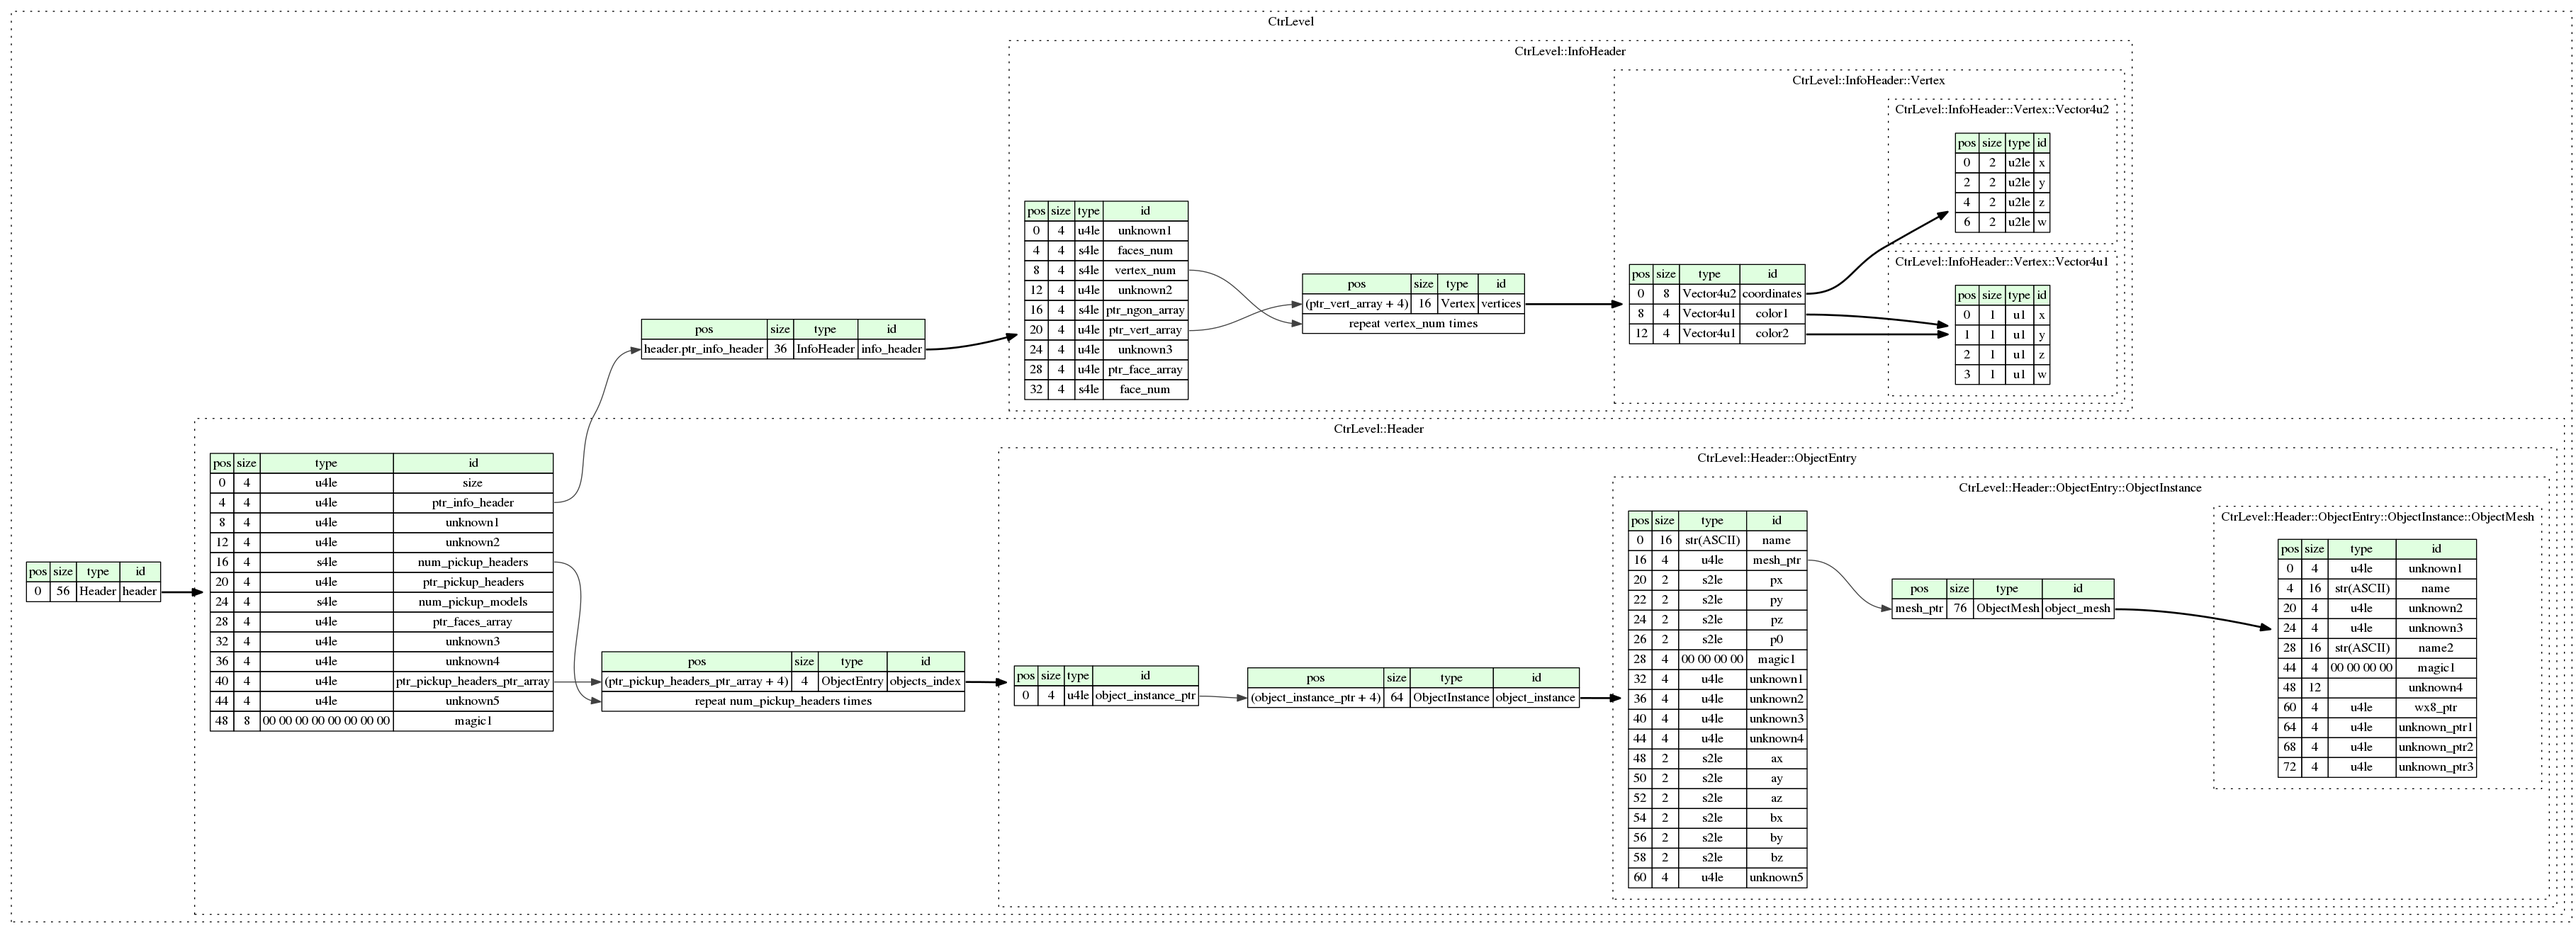
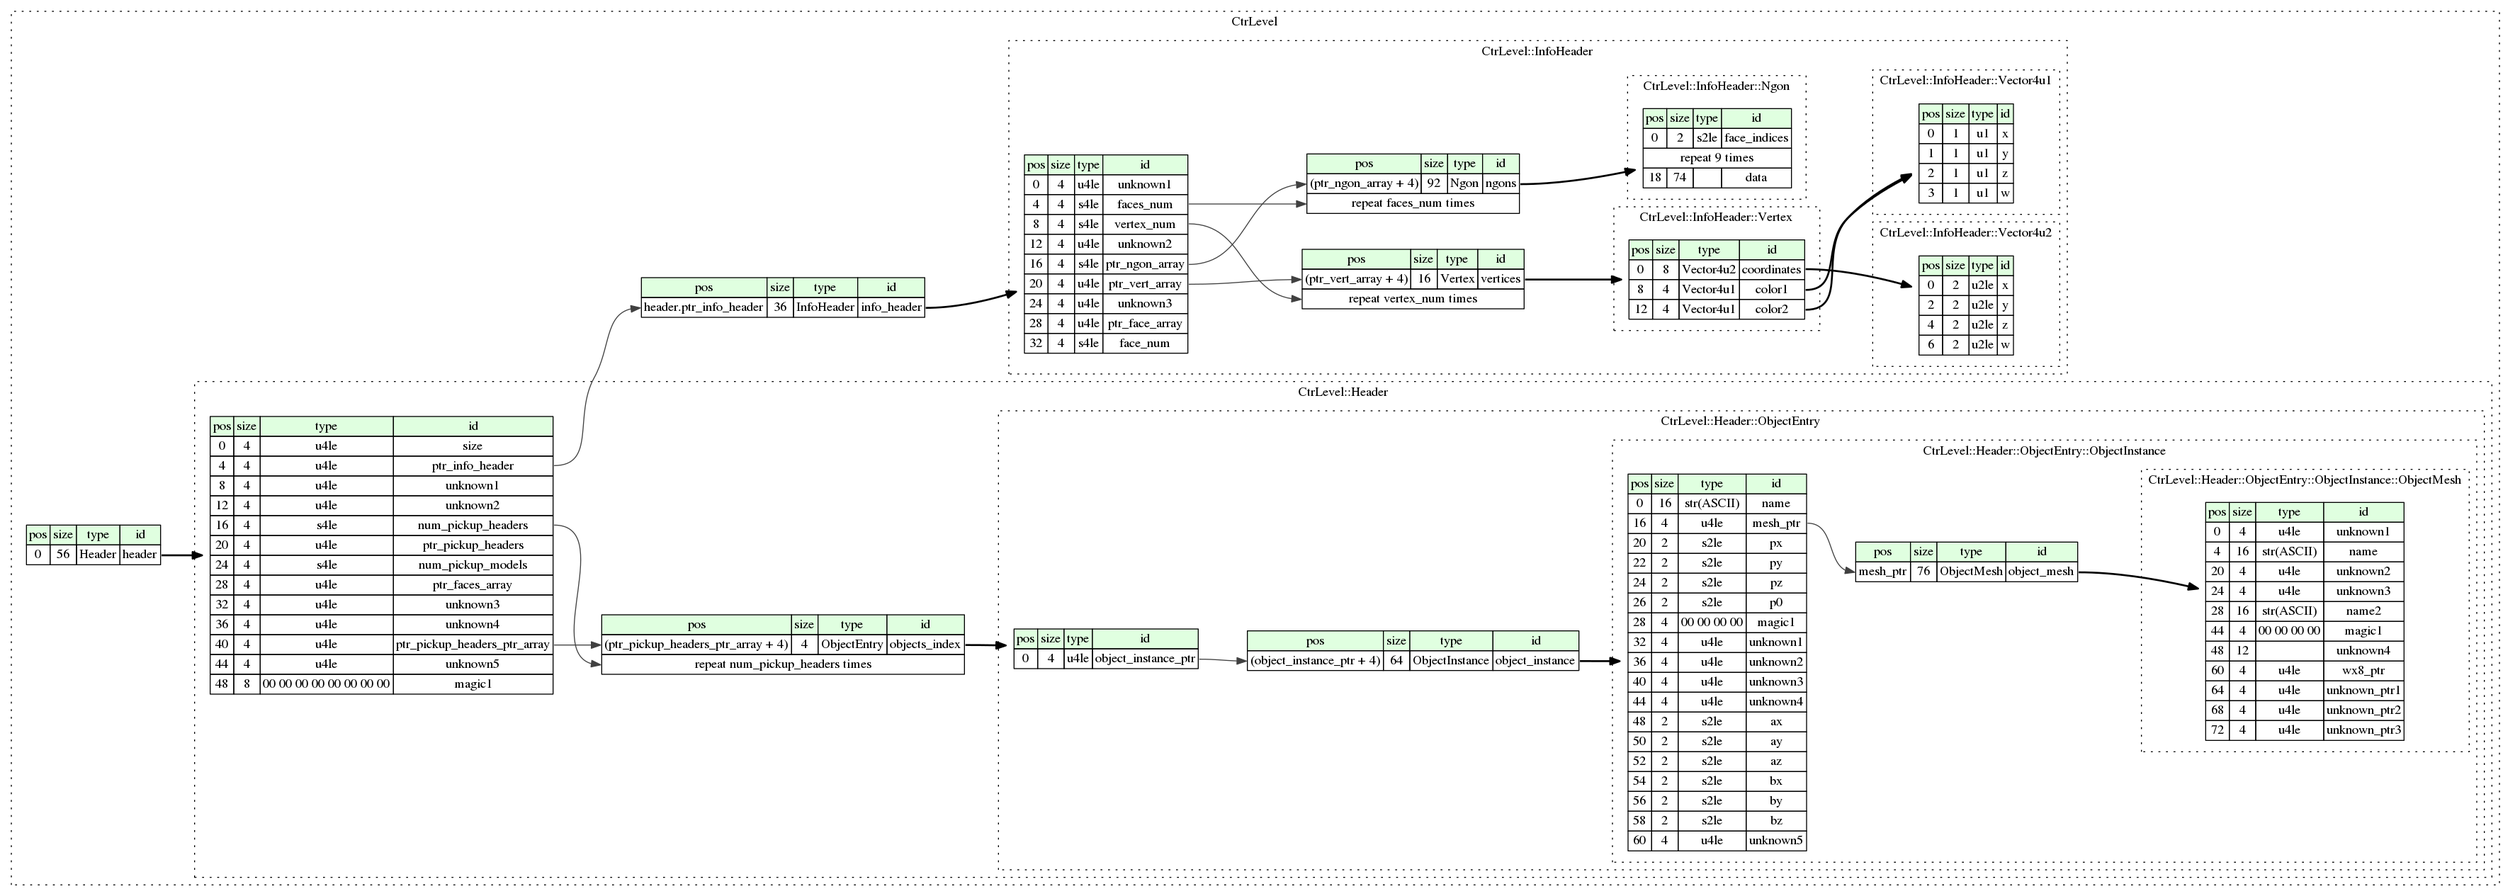
level ngons work the same as DCxDemo

diff --git a/csharp/ctr/CtrLevel.cs b/csharp/ctr/CtrLevel.cs
@@ -309,6 +309,7 @@ namespace ctr
                 m_parent = p__parent;
                 m_root = p__root;
                 f_vertices = false;
+                f_ngons = false;
                 _read();
             }
             private void _read()
@@ -342,72 +343,6 @@ namespace ctr
                     _color1 = new Vector4u1(m_io, this, m_root);
                     _color2 = new Vector4u1(m_io, this, m_root);
                 }
-                public partial class Vector4u2 : KaitaiStruct
-                {
-                    public static Vector4u2 FromFile(string fileName)
-                    {
-                        return new Vector4u2(new KaitaiStream(fileName));
-                    }
-
-                    public Vector4u2(KaitaiStream p__io, CtrLevel.InfoHeader.Vertex p__parent = null, CtrLevel p__root = null) : base(p__io)
-                    {
-                        m_parent = p__parent;
-                        m_root = p__root;
-                        _read();
-                    }
-                    private void _read()
-                    {
-                        _x = m_io.ReadU2le();
-                        _y = m_io.ReadU2le();
-                        _z = m_io.ReadU2le();
-                        _w = m_io.ReadU2le();
-                    }
-                    private ushort _x;
-                    private ushort _y;
-                    private ushort _z;
-                    private ushort _w;
-                    private CtrLevel m_root;
-                    private CtrLevel.InfoHeader.Vertex m_parent;
-                    public ushort X { get { return _x; } }
-                    public ushort Y { get { return _y; } }
-                    public ushort Z { get { return _z; } }
-                    public ushort W { get { return _w; } }
-                    public CtrLevel M_Root { get { return m_root; } }
-                    public CtrLevel.InfoHeader.Vertex M_Parent { get { return m_parent; } }
-                }
-                public partial class Vector4u1 : KaitaiStruct
-                {
-                    public static Vector4u1 FromFile(string fileName)
-                    {
-                        return new Vector4u1(new KaitaiStream(fileName));
-                    }
-
-                    public Vector4u1(KaitaiStream p__io, CtrLevel.InfoHeader.Vertex p__parent = null, CtrLevel p__root = null) : base(p__io)
-                    {
-                        m_parent = p__parent;
-                        m_root = p__root;
-                        _read();
-                    }
-                    private void _read()
-                    {
-                        _x = m_io.ReadU1();
-                        _y = m_io.ReadU1();
-                        _z = m_io.ReadU1();
-                        _w = m_io.ReadU1();
-                    }
-                    private byte _x;
-                    private byte _y;
-                    private byte _z;
-                    private byte _w;
-                    private CtrLevel m_root;
-                    private CtrLevel.InfoHeader.Vertex m_parent;
-                    public byte X { get { return _x; } }
-                    public byte Y { get { return _y; } }
-                    public byte Z { get { return _z; } }
-                    public byte W { get { return _w; } }
-                    public CtrLevel M_Root { get { return m_root; } }
-                    public CtrLevel.InfoHeader.Vertex M_Parent { get { return m_parent; } }
-                }
                 private Vector4u2 _coordinates;
                 private Vector4u1 _color1;
                 private Vector4u1 _color2;
@@ -415,13 +350,106 @@ namespace ctr
                 private CtrLevel.InfoHeader m_parent;
                 public Vector4u2 Coordinates { get { return _coordinates; } }
                 public Vector4u1 Color1 { get { return _color1; } }
-
-                /// <summary>
-                /// ???
-                /// </summary>
                 public Vector4u1 Color2 { get { return _color2; } }
                 public CtrLevel M_Root { get { return m_root; } }
                 public CtrLevel.InfoHeader M_Parent { get { return m_parent; } }
+            }
+            public partial class Ngon : KaitaiStruct
+            {
+                public static Ngon FromFile(string fileName)
+                {
+                    return new Ngon(new KaitaiStream(fileName));
+                }
+
+                public Ngon(KaitaiStream p__io, CtrLevel.InfoHeader p__parent = null, CtrLevel p__root = null) : base(p__io)
+                {
+                    m_parent = p__parent;
+                    m_root = p__root;
+                    _read();
+                }
+                private void _read()
+                {
+                    _faceIndices = new List<short>((int) (9));
+                    for (var i = 0; i < 9; i++)
+                    {
+                        _faceIndices.Add(m_io.ReadS2le());
+                    }
+                    _data = m_io.ReadBytes(74);
+                }
+                private List<short> _faceIndices;
+                private byte[] _data;
+                private CtrLevel m_root;
+                private CtrLevel.InfoHeader m_parent;
+                public List<short> FaceIndices { get { return _faceIndices; } }
+                public byte[] Data { get { return _data; } }
+                public CtrLevel M_Root { get { return m_root; } }
+                public CtrLevel.InfoHeader M_Parent { get { return m_parent; } }
+            }
+            public partial class Vector4u2 : KaitaiStruct
+            {
+                public static Vector4u2 FromFile(string fileName)
+                {
+                    return new Vector4u2(new KaitaiStream(fileName));
+                }
+
+                public Vector4u2(KaitaiStream p__io, CtrLevel.InfoHeader.Vertex p__parent = null, CtrLevel p__root = null) : base(p__io)
+                {
+                    m_parent = p__parent;
+                    m_root = p__root;
+                    _read();
+                }
+                private void _read()
+                {
+                    _x = m_io.ReadU2le();
+                    _y = m_io.ReadU2le();
+                    _z = m_io.ReadU2le();
+                    _w = m_io.ReadU2le();
+                }
+                private ushort _x;
+                private ushort _y;
+                private ushort _z;
+                private ushort _w;
+                private CtrLevel m_root;
+                private CtrLevel.InfoHeader.Vertex m_parent;
+                public ushort X { get { return _x; } }
+                public ushort Y { get { return _y; } }
+                public ushort Z { get { return _z; } }
+                public ushort W { get { return _w; } }
+                public CtrLevel M_Root { get { return m_root; } }
+                public CtrLevel.InfoHeader.Vertex M_Parent { get { return m_parent; } }
+            }
+            public partial class Vector4u1 : KaitaiStruct
+            {
+                public static Vector4u1 FromFile(string fileName)
+                {
+                    return new Vector4u1(new KaitaiStream(fileName));
+                }
+
+                public Vector4u1(KaitaiStream p__io, CtrLevel.InfoHeader.Vertex p__parent = null, CtrLevel p__root = null) : base(p__io)
+                {
+                    m_parent = p__parent;
+                    m_root = p__root;
+                    _read();
+                }
+                private void _read()
+                {
+                    _x = m_io.ReadU1();
+                    _y = m_io.ReadU1();
+                    _z = m_io.ReadU1();
+                    _w = m_io.ReadU1();
+                }
+                private byte _x;
+                private byte _y;
+                private byte _z;
+                private byte _w;
+                private CtrLevel m_root;
+                private CtrLevel.InfoHeader.Vertex m_parent;
+                public byte X { get { return _x; } }
+                public byte Y { get { return _y; } }
+                public byte Z { get { return _z; } }
+                public byte W { get { return _w; } }
+                public CtrLevel M_Root { get { return m_root; } }
+                public CtrLevel.InfoHeader.Vertex M_Parent { get { return m_parent; } }
             }
             private bool f_vertices;
             private List<Vertex> _vertices;
@@ -441,6 +469,26 @@ namespace ctr
                     m_io.Seek(_pos);
                     f_vertices = true;
                     return _vertices;
+                }
+            }
+            private bool f_ngons;
+            private List<Ngon> _ngons;
+            public List<Ngon> Ngons
+            {
+                get
+                {
+                    if (f_ngons)
+                        return _ngons;
+                    long _pos = m_io.Pos;
+                    m_io.Seek((PtrNgonArray + 4));
+                    _ngons = new List<Ngon>((int) (FacesNum));
+                    for (var i = 0; i < FacesNum; i++)
+                    {
+                        _ngons.Add(new Ngon(m_io, this, m_root));
+                    }
+                    m_io.Seek(_pos);
+                    f_ngons = true;
+                    return _ngons;
                 }
             }
             private uint _unknown1;

diff --git a/python/ctr/ctr_level.py b/python/ctr/ctr_level.py
@@ -166,37 +166,52 @@ class CtrLevel(KaitaiStruct):
                 self._read()
 
             def _read(self):
-                self.coordinates = self._root.InfoHeader.Vertex.Vector4u2(self._io, self, self._root)
-                self.color1 = self._root.InfoHeader.Vertex.Vector4u1(self._io, self, self._root)
-                self.color2 = self._root.InfoHeader.Vertex.Vector4u1(self._io, self, self._root)
-
-            class Vector4u2(KaitaiStruct):
-                def __init__(self, _io, _parent=None, _root=None):
-                    self._io = _io
-                    self._parent = _parent
-                    self._root = _root if _root else self
-                    self._read()
-
-                def _read(self):
-                    self.x = self._io.read_u2le()
-                    self.y = self._io.read_u2le()
-                    self.z = self._io.read_u2le()
-                    self.w = self._io.read_u2le()
+                self.coordinates = self._root.InfoHeader.Vector4u2(self._io, self, self._root)
+                self.color1 = self._root.InfoHeader.Vector4u1(self._io, self, self._root)
+                self.color2 = self._root.InfoHeader.Vector4u1(self._io, self, self._root)
 
 
-            class Vector4u1(KaitaiStruct):
-                def __init__(self, _io, _parent=None, _root=None):
-                    self._io = _io
-                    self._parent = _parent
-                    self._root = _root if _root else self
-                    self._read()
+        class Ngon(KaitaiStruct):
+            def __init__(self, _io, _parent=None, _root=None):
+                self._io = _io
+                self._parent = _parent
+                self._root = _root if _root else self
+                self._read()
 
-                def _read(self):
-                    self.x = self._io.read_u1()
-                    self.y = self._io.read_u1()
-                    self.z = self._io.read_u1()
-                    self.w = self._io.read_u1()
+            def _read(self):
+                self.face_indices = [None] * (9)
+                for i in range(9):
+                    self.face_indices[i] = self._io.read_s2le()
 
+                self.data = self._io.read_bytes(74)
+
+
+        class Vector4u2(KaitaiStruct):
+            def __init__(self, _io, _parent=None, _root=None):
+                self._io = _io
+                self._parent = _parent
+                self._root = _root if _root else self
+                self._read()
+
+            def _read(self):
+                self.x = self._io.read_u2le()
+                self.y = self._io.read_u2le()
+                self.z = self._io.read_u2le()
+                self.w = self._io.read_u2le()
+
+
+        class Vector4u1(KaitaiStruct):
+            def __init__(self, _io, _parent=None, _root=None):
+                self._io = _io
+                self._parent = _parent
+                self._root = _root if _root else self
+                self._read()
+
+            def _read(self):
+                self.x = self._io.read_u1()
+                self.y = self._io.read_u1()
+                self.z = self._io.read_u1()
+                self.w = self._io.read_u1()
 
 
         @property
@@ -212,6 +227,20 @@ class CtrLevel(KaitaiStruct):
 
             self._io.seek(_pos)
             return self._m_vertices if hasattr(self, '_m_vertices') else None
+
+        @property
+        def ngons(self):
+            if hasattr(self, '_m_ngons'):
+                return self._m_ngons if hasattr(self, '_m_ngons') else None
+
+            _pos = self._io.pos()
+            self._io.seek((self.ptr_ngon_array + 4))
+            self._m_ngons = [None] * (self.faces_num)
+            for i in range(self.faces_num):
+                self._m_ngons[i] = self._root.InfoHeader.Ngon(self._io, self, self._root)
+
+            self._io.seek(_pos)
+            return self._m_ngons if hasattr(self, '_m_ngons') else None
 
 
     @property
